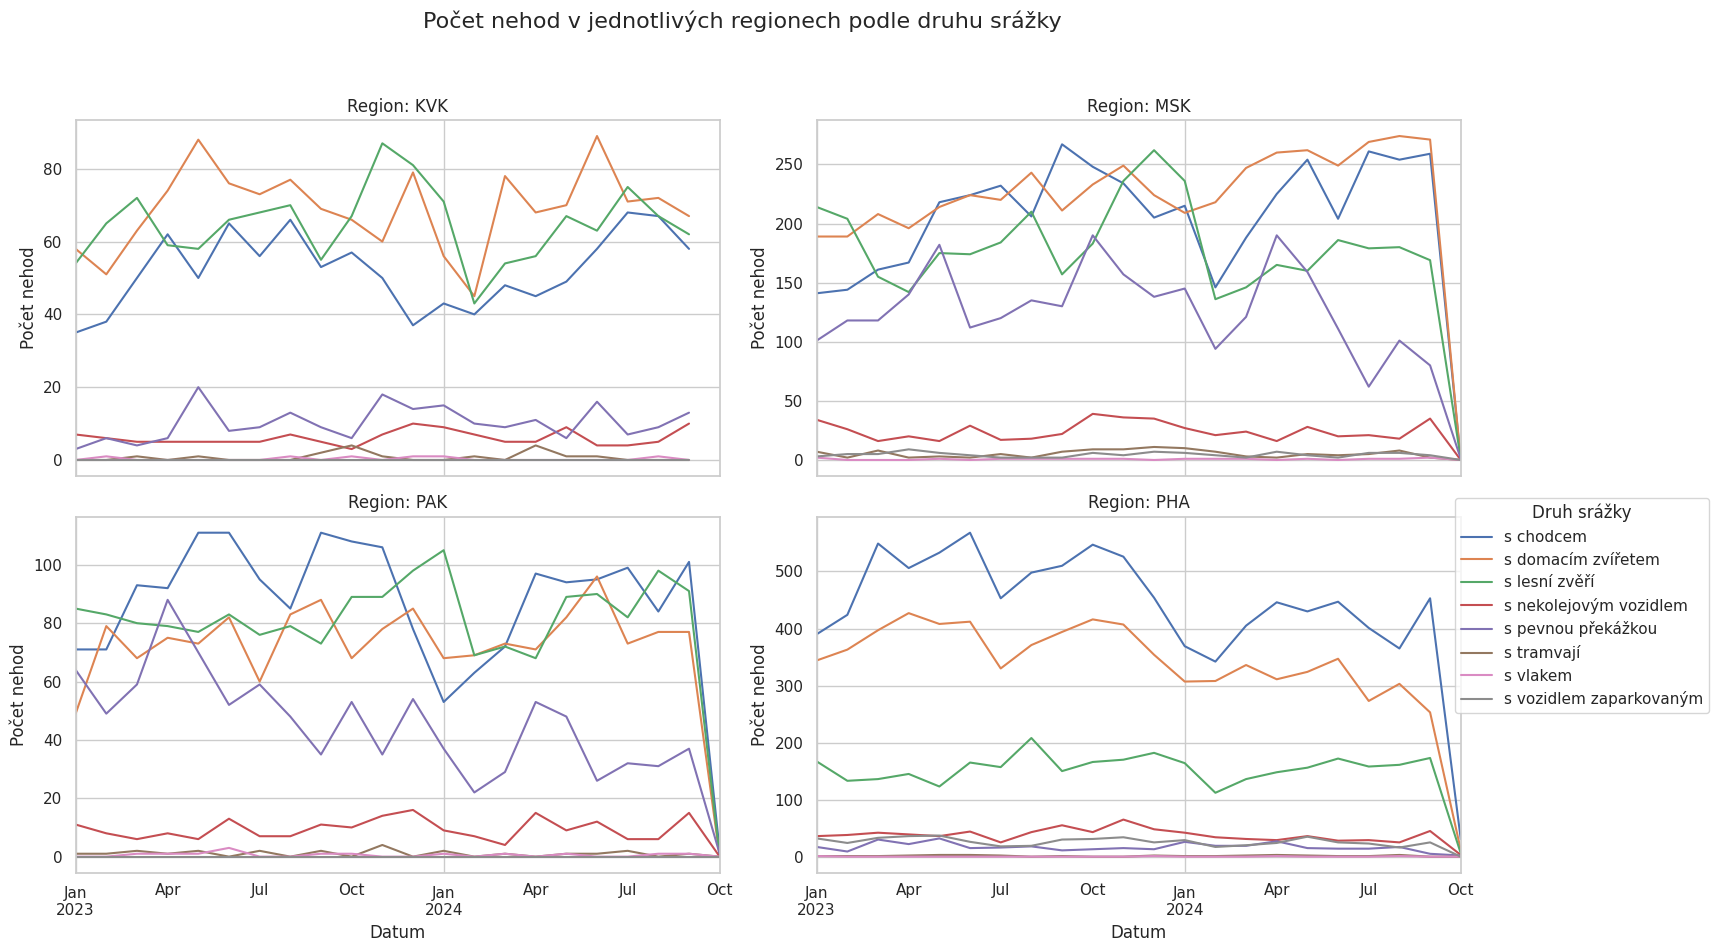
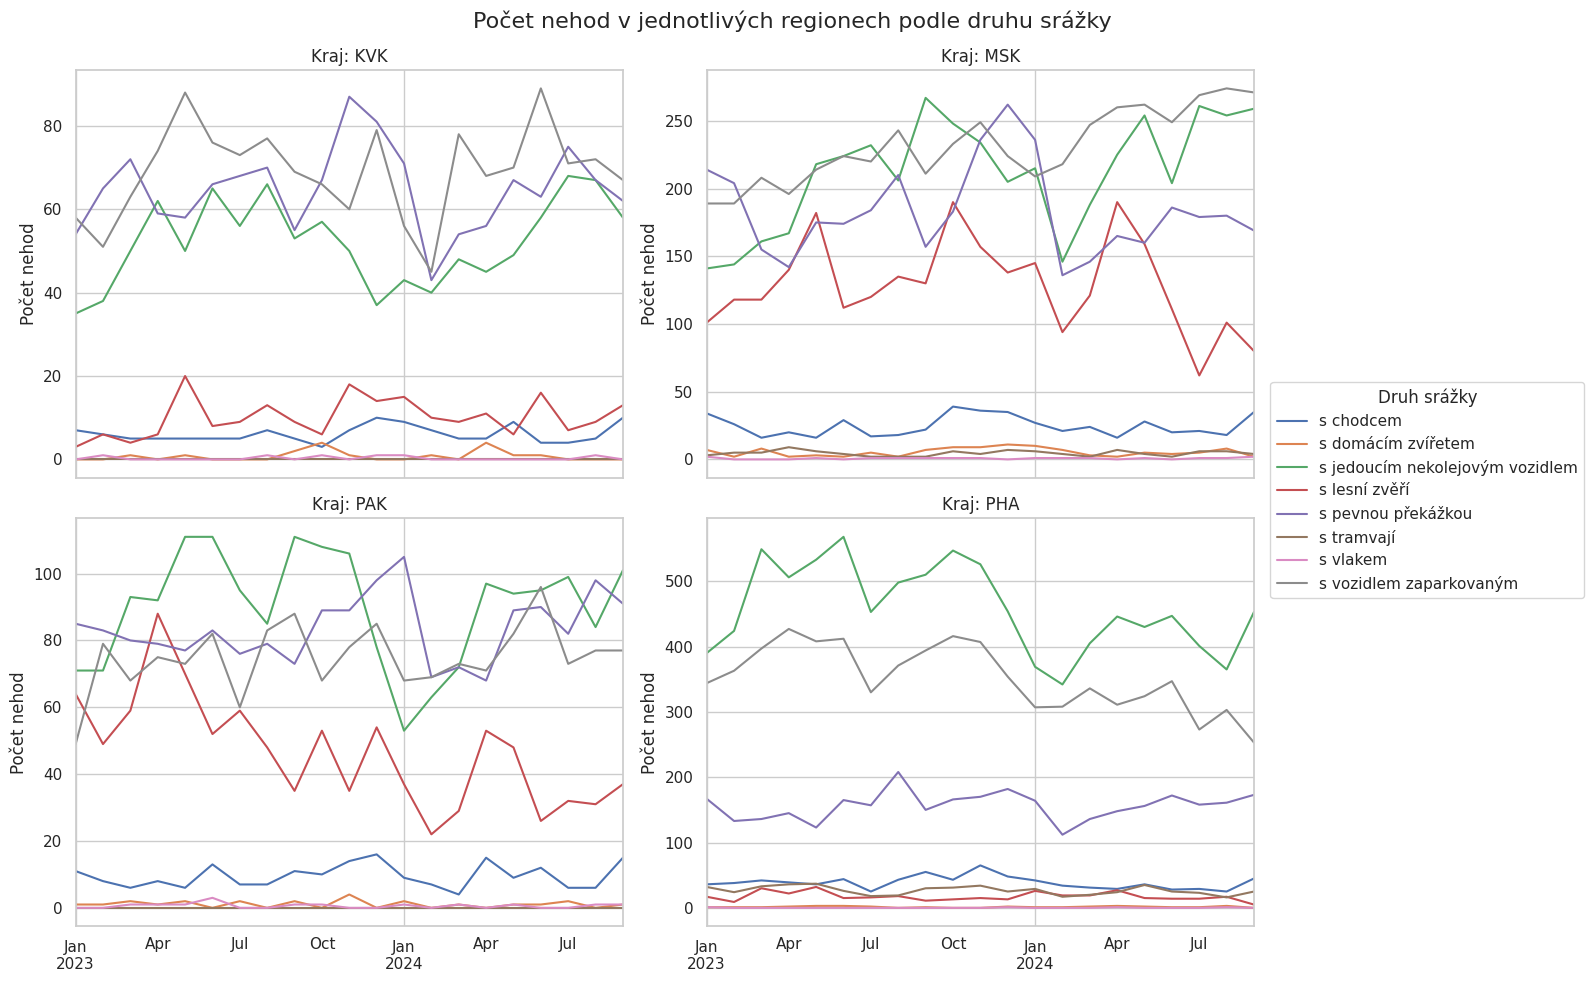
IZV finishing graphs - commenting, visual fixes

Changed region(s): [[0.0, 0.0305, 1.0, 1.0], [0.2459, 0.0, 0.707, 0.0914], [0.6455, 0.9748, 0.6763, 1.0]]

diff --git a/5.semestr/IZV/izv-part02/analysis.py b/5.semestr/IZV/izv-part02/analysis.py
@@ -28,46 +28,47 @@ def load_data(filename: str, ds: str) -> pd.DataFrame:
 
 # Ukol 2: zpracovani dat
 def parse_data(df: pd.DataFrame, verbose: bool = False) -> pd.DataFrame:
-    # Vytvoření nového DataFrame
     new_df = df.copy()
-
-    # Převod sloupce p2a na formát data, bereme v potaz formát "DD.MM.YYYY"
+    # Převod sloupce p2a na formát data "DD.MM.YYYY"
     new_df['date'] = pd.to_datetime(new_df['p2a'], format='%d.%m.%Y')
-
-    # Vytvoření sloupce region
+    # Vytvoření mapy a namapování krajů
     region_map = {0: "PHA", 1: "STC", 2: "JHC", 3: "PLK", 4: "ULK", 5: "HKK", 6: "JHM", 7: "MSK",
                   14: "OLK", 15: "ZLK", 16: "VYS", 17: "PAK", 18: "LBK", 19: "KVK"}
     new_df['region'] = new_df['p4a'].map(region_map)  # Adjust based on the correct column
-
-    # Odstranění duplikovaných záznamů dle identifikačního čísla (p1)
+    # Odstranění duplicitních záznamů
     new_df = new_df.drop_duplicates(subset='p1')
-
     # Výpočet a výpis velikosti datového rámce po úpravách
     if verbose:
         total_size = new_df.memory_usage(deep=True).sum() / (10**6)
         print(f"new_size={total_size:.1f} MB")
-
     return new_df
 
 # Ukol 3: počty nehod v jednotlivých regionech podle stavu vozovky
 def plot_state(df: pd.DataFrame, fig_location: str = None, show_figure: bool = False):
-    # Replace numerical values in p16 with descriptive strings
+    # Vytvoření mapy a namapování stavu vozovky
     condition_map = {1: "Suchý povrch", 2: "Suchý povrch", 3: "Mokro", 4: "Bláto", 5: "Náledí, ujetý sníh", 6: "Náledí, ujetý sníh"}
     df['road_condition'] = df['p16'].map(condition_map)
-    
-    # Filter and count accidents by region and road condition
-    accident_counts = df[df['road_condition'].notna()].groupby(['region', 'road_condition']).size().reset_index(name='counts')
+    #vyfiltrování prázdných záznamů
+    filtered_df = df[df['road_condition'].notna()]
+    grouped_df = filtered_df.groupby(['region', 'road_condition'])
+    counts_series = grouped_df.size()
+    accident_counts = counts_series.reset_index(name='counts')
     
     # Set up the plot
     sns.set_theme(style="whitegrid")
     fig, axs = plt.subplots(2, 2, figsize=(15, 10), constrained_layout=True)
     conditions = accident_counts['road_condition'].unique()
     
-    for ax, condition in zip(axs.flatten(), conditions):
+    for i, (ax, condition) in enumerate(zip(axs.flatten(), conditions)):
         sns.barplot(data=accident_counts[accident_counts['road_condition'] == condition], x='region', y='counts', ax=ax)
         ax.set_title(condition)
         ax.set_xlabel('')
         ax.set_ylabel('Počet nehod')
+        
+        if i % 2 == 0: # Left column 
+            ax.set_ylabel('Počet nehod') 
+        else: 
+            ax.set_ylabel('')
 
         for container in ax.containers: 
             ax.bar_label(container)
@@ -122,6 +123,9 @@ def plot_alcohol(df: pd.DataFrame, df_consequences: pd.DataFrame, fig_location: 
         
         # Set font size of x-axis labels
         ax.tick_params(axis='x', labelsize=8)
+        
+        for container in ax.containers: 
+            ax.bar_label(container, fontsize=6)
 
     # Move the legend outside of the plots
     handles, labels = axs[0, 0].get_legend_handles_labels()
@@ -145,13 +149,16 @@ def plot_alcohol(df: pd.DataFrame, df_consequences: pd.DataFrame, fig_location: 
 
 # Ukol 5: Druh nehody (srážky) v čase
 def plot_type(df: pd.DataFrame, fig_location: str = None, show_figure: bool = False):
-    # Select four regions
-    selected_regions = ['MSK', 'PHA', 'PAK', 'KVK']  # You can change these to other regions if needed
+    # Get a list of unique regions 
+    unique_regions = df['region'].unique() 
     
+    # Select four regions randomly
+    selected_regions = np.random.choice(unique_regions, 4, replace=False)
+    selected_regions = ['MSK', 'PHA', 'PAK', 'KVK']
     # Filter for collisions only
     collision_types = {
-        1: 's chodcem', 2: 's domacím zvířetem', 3: 's lesní zvěří', 4: 's nekolejovým vozidlem',
-        5: 's pevnou překážkou', 6: 's tramvají', 7: 's vlakem', 8: 's vozidlem zaparkovaným'
+        1: 's jedoucím nekolejovým vozidlem', 2: 's vozidlem zaparkovaným', 3: 's pevnou překážkou', 4: 's chodcem',
+        5: 's lesní zvěří', 6: 's domácím zvířetem', 7: 's vlakem', 8: 's tramvají'
     }
     
     df['collision_type'] = df['p6'].map(collision_types)
@@ -173,17 +180,17 @@ def plot_type(df: pd.DataFrame, fig_location: str = None, show_figure: bool = Fa
     monthly_data = pivot_df.groupby(['region', pd.Grouper(key='date', freq='MS')]).sum().reset_index()
     
     # Plot
-    sns.set(style="whitegrid")
-    fig, axs = plt.subplots(2, 2, figsize=(15, 10), sharex=True)
+    sns.set_theme(style="whitegrid")
+    fig, axs = plt.subplots(2, 2, figsize=(20, 10), sharex=True)
     regions_sorted = sorted(selected_regions)
     
     for ax, region in zip(axs.flatten(), regions_sorted):
         region_data = monthly_data[monthly_data['region'] == region]
         region_data = region_data.set_index('date')
-        region_data = region_data.loc['2023-01-01':'2024-10-01']
+        region_data = region_data.loc['2023-01-01':'2024-9-29']
         
-        region_data.plot(ax=ax, title=f'Region: {region}')
-        ax.set_xlabel('Datum')
+        region_data.plot(ax=ax, title=f'Kraj: {region}')
+        ax.set_xlabel('')
         ax.set_ylabel('Počet nehod')
         
     # Remove the legend from individual plots
@@ -192,10 +199,10 @@ def plot_type(df: pd.DataFrame, fig_location: str = None, show_figure: bool = Fa
     
     # Add a single legend
     handles, labels = axs[0, 0].get_legend_handles_labels()
-    fig.legend(handles, labels, loc='upper right', bbox_to_anchor=(1.15, 0.5), title='Druh srážky', ncol=1)
+    fig.legend(handles, labels, loc='center right', bbox_to_anchor=(0.8, 0.5), title='Druh srážky', ncol=1)
     
-    plt.suptitle('Počet nehod v jednotlivých regionech podle druhu srážky', fontsize=16)
-    fig.tight_layout(rect=[0, 0.03, 1, 0.95])
+    plt.suptitle('Počet nehod v jednotlivých regionech podle druhu srážky', fontsize=16, x=0.4)
+    fig.tight_layout(rect=[0, 0, 0.64, 1])
     
     # Save the figure if fig_location is provided
     if fig_location:
@@ -222,7 +229,7 @@ if __name__ == "__main__":
     df_consequences = pd.read_pickle('consequences_data.plk')
 
     plot_state(df2, "01_state.png")
-    plot_alcohol(df2, df_consequences, "02_alcohol.png", True)
+    plot_alcohol(df2, df_consequences, "02_alcohol.png", False)
     plot_type(df2, "03_type.png")
 
 
